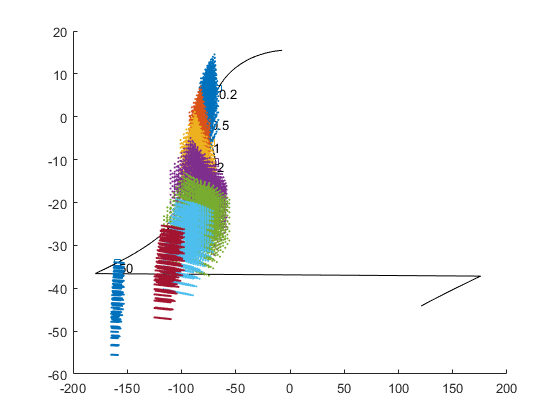
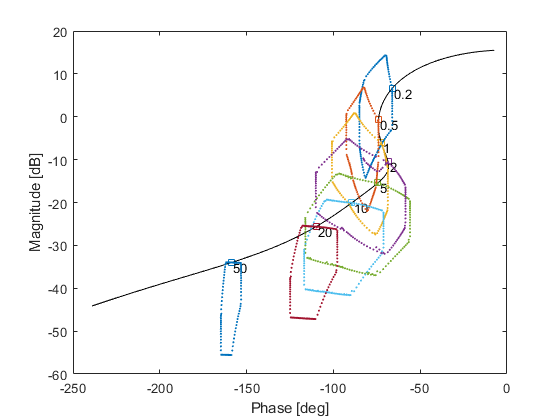
corrected ex

diff --git a/doc/html/ex_blackBox.html b/doc/html/ex_blackBox.html
@@ -6,7 +6,7 @@
    <script type="text/javascript" src="http://cdn.mathjax.org/mathjax/latest/MathJax.js?config=TeX-AMS-MML_HTMLorMML"></script><!--
 This HTML was auto-generated from MATLAB code.
 To make changes, update the MATLAB code and republish this document.
-      --><title>Exmaple: Black box</title><meta name="generator" content="MATLAB 9.3"><link rel="schema.DC" href="http://purl.org/dc/elements/1.1/"><meta name="DC.date" content="2019-02-14"><meta name="DC.source" content="ex_blackBox.m"><style type="text/css">
+      --><title>Exmaple: Black box</title><meta name="generator" content="MATLAB 9.3"><link rel="schema.DC" href="http://purl.org/dc/elements/1.1/"><meta name="DC.date" content="2020-04-21"><meta name="DC.source" content="ex_blackBox.m"><style type="text/css">
 html,body,div,span,applet,object,iframe,h1,h2,h3,h4,h5,h6,p,blockquote,pre,a,abbr,acronym,address,big,cite,code,del,dfn,em,font,img,ins,kbd,q,s,samp,small,strike,strong,sub,sup,tt,var,b,u,i,center,dl,dt,dd,ol,ul,li,fieldset,form,label,legend,table,caption,tbody,tfoot,thead,tr,th,td{margin:0;padding:0;border:0;outline:0;font-size:100%;vertical-align:baseline;background:transparent}body{line-height:1}ol,ul{list-style:none}blockquote,q{quotes:none}blockquote:before,blockquote:after,q:before,q:after{content:'';content:none}:focus{outine:0}ins{text-decoration:none}del{text-decoration:line-through}table{border-collapse:collapse;border-spacing:0}
 
 html { min-height:100%; margin-bottom:1px; }
@@ -71,61 +71,63 @@ table td { padding:7px 5px; text-align:left; vertical-align:top; border:1px soli
 <span class="keyword">function</span> Pz = explant(k,a,zet,wn,s)
 </pre><pre class="language-matlab">Ts = 0.02;
 z = exp(Ts*s);                              <span class="comment">% approximate z</span>
-num = k*[1 a];
-den = conv([1/(wn*wn) 2*zet/wn 1],[1/10000 2*0.7/100 1]);
-Pz = c2d(tf(num,den),Ts,<span class="string">'zoh'</span>);             <span class="comment">% convert by ZOH</span>
-[dnum, dden] = tfdata(Pz);                  <span class="comment">% cell object are returned</span>
-y = polyval(dnum{1},z)./polyval(dden{1},z);
+N = length(s);
+y = zeros(N,1);
+<span class="keyword">for</span> ii=1:N
+    num = k(ii).*[1 a(ii)];
+    den = conv([1/(wn(ii)*wn(ii)) 2*zet(ii)/wn(ii) 1],[1/10000 2*0.7/100 1]);
+    Pz = c2d(tf(num,den),Ts,<span class="string">'zoh'</span>);             <span class="comment">% convert by ZOH</span>
+    [dnum, dden] = tfdata(Pz);                  <span class="comment">% cell object are returned</span>
+    y(ii) = polyval(dnum{1},z(ii))./polyval(dden{1},z(ii));
+<span class="keyword">end</span>
 </pre><pre class="language-matlab"><span class="keyword">end</span>
 ------------------------------------------------------------------------
-</pre><p>Define the uncertain parameters as qpar array. Note that a qapr array must be a column vector (horizontal concatenation produces a qpoly object!)</p><pre class="codeinput"><span class="comment">% uncertain parameters</span>
+</pre><p>Note that the only restriction is that the external plant function be able to take vectors of parameters and s and return a vector of the same size.</p><p>Define the uncertain parameters as qpar array. Note that a qapr array must be a column vector (horizontal concatenation produces a qpoly object!)</p><pre class="codeinput"><span class="comment">% uncertain parameters</span>
 k=qpar(<span class="string">'k'</span>,2,2,5,8);
 a=qpar(<span class="string">'a'</span>,3,1,3,8);
 z=qpar(<span class="string">'z'</span>,0.6,0.3,0.6,8);
 wn=qpar(<span class="string">'wn'</span>,4,4,8,8);
 pars=[k ; a ; z ; wn];
-</pre><p>The blacl box plant is now defined as</p><pre class="codeinput">Pblack = qblackbox(f,pars)
+</pre><p>The black box plant is now defined as</p><pre class="codeinput">Pblack = qblackbox(f,pars)
 </pre><pre class="codeoutput">
 Pblack = 
 
   qblackbox with properties:
 
-           er: []
+     blackBox: @explant
           num: []
           den: []
-     blackBox: @explant
          pars: [4&times;1 qpar]
-        delay: []
      unstruct: []
        uncint: []
-    templates: []
-      nominal: []
-         info: 'generated from BalckBox func handle on: 14-Feb-2019 15:28:02'
+         info: 'generated from BalckBox func handle on: 21-Apr-2020 00:19:08'
+    templates: [0&times;0 qtpl]
+      nominal: [0&times;0 qfr]
+        delay: []
 
 </pre><p>Usage is same as a dum/den qplant. We can plot the nyquist plot for selected cases,</p><pre class="codeinput">parcases = [2 1 0.3 4 ; 5 3 0.6 8 ; 3 2 0.5 6].';
 Pblack.niccases(parcases,logspace(-2,2,30))
 </pre><img vspace="5" hspace="5" src="ex_blackBox_01.png" alt=""> <p>compute the nominal case and templates</p><pre class="codeinput">Pblack.cnom(logspace(-2,2,200))
 w = [0.2 0.5 1 2 5 10 20 50];
-Pblack.ctpl(<span class="string">'grid'</span>,w);
+Pblack.ctpl(<span class="string">'recedge'</span>,w);
 Pblack.showtpl;
 </pre><pre class="codeoutput">
 ans = 
 
   qblackbox with properties:
 
-           er: []
+     blackBox: @explant
           num: []
           den: []
-     blackBox: @explant
          pars: [4&times;1 qpar]
-        delay: []
      unstruct: []
        uncint: []
-    templates: []
+         info: 'generated from BalckBox func handle on: 21-Apr-2020 00:19:08'
+    templates: [0&times;0 qtpl]
       nominal: [1&times;1 qfr]
-         info: 'generated from BalckBox func handle on: 14-Feb-2019 15:28:02'
+        delay: []
 
-Calculating templates using the grid method 
+Calculating templates by recurcive edge grid
 --&gt; for w=0.2 [rad/s] 
 --&gt; for w=0.5 [rad/s] 
 --&gt; for w=1 [rad/s] 
@@ -134,6 +136,7 @@ Calculating templates using the grid method
 --&gt; for w=10 [rad/s] 
 --&gt; for w=20 [rad/s] 
 --&gt; for w=50 [rad/s] 
+PRUNE: Phase uncertainty larger than 360, or not connected
 </pre><img vspace="5" hspace="5" src="ex_blackBox_02.png" alt=""> <p>and etc. Do note that everything runs much slower. This issue should be fixed in future openQsyn versions.</p><p class="footer"><br><a href="http://www.mathworks.com/products/matlab/">Published with MATLAB&reg; R2017b</a><br></p></div><!--
 ##### SOURCE BEGIN #####
 %% Exmaple: Black box
@@ -168,14 +171,23 @@ f = @explant;
 % 
 %   Ts = 0.02;
 %   z = exp(Ts*s);                              % approximate z
-%   num = k*[1 a];
-%   den = conv([1/(wn*wn) 2*zet/wn 1],[1/10000 2*0.7/100 1]);
-%   Pz = c2d(tf(num,den),Ts,'zoh');             % convert by ZOH
-%   [dnum, dden] = tfdata(Pz);                  % cell object are returned
-%   y = polyval(dnum{1},z)./polyval(dden{1},z);
+%   N = length(s);
+%   y = zeros(N,1);
+%   for ii=1:N
+%       num = k(ii).*[1 a(ii)];
+%       den = conv([1/(wn(ii)*wn(ii)) 2*zet(ii)/wn(ii) 1],[1/10000 2*0.7/100 1]);
+%       Pz = c2d(tf(num,den),Ts,'zoh');             % convert by ZOH
+%       [dnum, dden] = tfdata(Pz);                  % cell object are returned
+%       y(ii) = polyval(dnum{1},z(ii))./polyval(dden{1},z(ii));
+%   end
 % 
 %   end
 %   REPLACE_WITH_DASH_DASHREPLACE_WITH_DASH_DASHREPLACE_WITH_DASH_DASHREPLACE_WITH_DASH_DASHREPLACE_WITH_DASH_DASHREPLACE_WITH_DASH_DASHREPLACE_WITH_DASH_DASHREPLACE_WITH_DASH_DASHREPLACE_WITH_DASH_DASHREPLACE_WITH_DASH_DASHREPLACE_WITH_DASH_DASHREPLACE_WITH_DASH_DASHREPLACE_WITH_DASH_DASHREPLACE_WITH_DASH_DASHREPLACE_WITH_DASH_DASHREPLACE_WITH_DASH_DASHREPLACE_WITH_DASH_DASHREPLACE_WITH_DASH_DASHREPLACE_WITH_DASH_DASHREPLACE_WITH_DASH_DASHREPLACE_WITH_DASH_DASHREPLACE_WITH_DASH_DASHREPLACE_WITH_DASH_DASHREPLACE_WITH_DASH_DASHREPLACE_WITH_DASH_DASHREPLACE_WITH_DASH_DASHREPLACE_WITH_DASH_DASHREPLACE_WITH_DASH_DASHREPLACE_WITH_DASH_DASHREPLACE_WITH_DASH_DASHREPLACE_WITH_DASH_DASHREPLACE_WITH_DASH_DASHREPLACE_WITH_DASH_DASHREPLACE_WITH_DASH_DASHREPLACE_WITH_DASH_DASHREPLACE_WITH_DASH_DASH
+ 
+%%
+% Note that the only restriction is that the external plant function be
+% able to take vectors of parameters and s and return a vector of the same
+% size.
 
 %%
 % Define the uncertain parameters as qpar array. Note that a qapr array
@@ -189,7 +201,7 @@ wn=qpar('wn',4,4,8,8);
 pars=[k ; a ; z ; wn];
 
 %%
-% The blacl box plant is now defined as
+% The black box plant is now defined as
 Pblack = qblackbox(f,pars)
 %%
 % Usage is same as a dum/den qplant. We can plot the nyquist plot for
@@ -201,7 +213,7 @@ Pblack.niccases(parcases,logspace(-2,2,30))
 % compute the nominal case and templates
 Pblack.cnom(logspace(-2,2,200))
 w = [0.2 0.5 1 2 5 10 20 50];
-Pblack.ctpl('grid',w);
+Pblack.ctpl('recedge',w);
 Pblack.showtpl;
 
 %%

diff --git a/doc/html/ex_rff.html b/doc/html/ex_rff.html
@@ -119,7 +119,7 @@ P2.showtpl
 --&gt; for w=10 [rad/sec]
 --&gt; for w=20 [rad/sec]
 --&gt; for w=50 [rad/sec]
-</pre><img vspace="5" hspace="5" src="ex_rff_03.png" alt=""> <p>One can see that the nominal is drawn at the wrong phase: <span class="MathJax_Preview"><img src="ex_rff_eq13730660818168336607.png" alt="$+180$"></span><script type="math/tex">+180</script> degrees instead of <span class="MathJax_Preview"><img src="ex_rff_eq08359778732645892253.png" alt="$-180$"></span><script type="math/tex">-180</script> degrees. This can be corrected using the command <tt>P2.unwrap()</tt>.</p><p class="footer"><br><a href="http://www.mathworks.com/products/matlab/">Published with MATLAB&reg; R2017b</a><br></p></div><!--
+</pre><img vspace="5" hspace="5" src="ex_rff_03.png" alt=""> <p>One can see that the nominal is drawn at the wrong phase: <span class="MathJax_Preview"><img src="ex_rff_eq13730660818168336607.png" alt="$+180$"></span><script type="math/tex">+180</script> degrees instead of <span class="MathJax_Preview"><img src="ex_rff_eq08359778732645892253.png" alt="$-180$"></span><script type="math/tex">-180</script> degrees. This can be corrected using the command <tt>P2.unwrap()</tt>.</p><p>In the second example a delay is added using a delay rff element. Note that dealys, as well as multiplicative unstructured uncertainty may be inserted both as rff elements and using the qplant methods <tt>adelay</tt> and <tt>auncint</tt>. It is suggested that these methods wiil only be used when the plant is not constructed using rff elements.</p><p class="footer"><br><a href="http://www.mathworks.com/products/matlab/">Published with MATLAB&reg; R2017b</a><br></p></div><!--
 ##### SOURCE BEGIN #####
 %% Example: RFF template computation
 % 
@@ -216,5 +216,11 @@ P2.showtpl
 % One can see that the nominal is drawn at the wrong phase: $+180$ degrees instead
 % of $-180$ degrees. This can be corrected using the command |P2.unwrap()|. 
 
+%%
+% In the second example a delay is added using a delay rff element. Note
+% that dealys, as well as multiplicative unstructured uncertainty may be
+% inserted both as rff elements and using the qplant methods |adelay| and 
+% |auncint|. It is suggested that these methods wiil only be used when the
+% plant is not constructed using rff elements.
 ##### SOURCE END #####
 --></body></html>

diff --git a/@qrff/qrff.m b/@qrff/qrff.m
@@ -11,7 +11,39 @@ classdef qrff
     methods
         function obj = qrff(type,par1,varargin)
             %QRFF Construct an instance of the qrff class
-            %   Detailed explanation goes here
+            %   
+            %   Usage: 
+            %
+            %   rff = QRFF(type,par)   defines a qrff object of specified "type" 
+            %   using the qpar or numerical parameter "par". 
+            %
+            %   rff = qrff(type,par1,par2)    is used is type requires two
+            %   parameters 
+            %
+            %   Avilables input combinations
+            %       qrff('gain',k)      uncertain gain k
+            %       qrff('unc',w,M)     unstructured uncertainty M(w)
+            %       qrff('delay',tau)   time delay exp(-tau*s) 
+            %       qrff('dc',a)        first order dc element (s/a+1)
+            %       qrff('dc',w,z)      second order dc element (s^2/w^2+2*z*s/w+1)
+            %       qrff('hf',a)        first order hf element (a+s)
+            %       qrff('hf',w,z)      second order hf element (s^2+2*z*w*s+w^2)
+            %     
+            %   Example 1: 2nd order dc element with uncertain wn and zeta
+            %       wn = qpar('wn',4,4,8);
+            %       zeta = qpar('z',0.4,0.4,0.6);
+            %       rffElement = QRFF('dc',wn,zeta);
+            % 
+            %   Example 2: 2nd order hf element with uncertain wn and constant zeta 
+            %       wn = qpar('wn',4,4,8);
+            %       zeta = 0.4;
+            %       rffElement = QRFF('hc'wn'zeta)
+            %
+            %   Example 3: unstructured uncertainty
+            %       wunc = [0.1 0.5 1 5 10 20 50];
+            %       M = [1 2 5 5 5 10 20];
+            %       rffElement = qrff('unc',wunc,M);
+            %
             
             validStrings = {'gain','delay','dc','hf','uns','int','poly'};
             validatestring(type,validStrings,'qrff','type',1);

diff --git a/qblackbox.m b/qblackbox.m
@@ -19,6 +19,25 @@ classdef qblackbox < qplant
             %Used by: FUNCVAL, CASES, CTPL, CNOM and their subroutines          
             h = obj.blackBox;
         end
+        function obj = cnom(obj,w)
+            %CPNOM computes the nominal transfer function
+            %
+            %   CNOM(P,W)   computes the nominal for qplant object P for the frequency
+            %   vector W; results is stored under the property 'nominal'.
+            %
+            %   See also: qplant/ctpl
+            if nargin<2, w = logspace(-1,2,50); end
+            f = qplant2func(obj);
+            pnom = [obj.pars.nominal];
+            N = length(w);
+            C=cell(length(pnom),1);
+            for k=1:length(pnom)
+                C{k} = repmat(pnom(k),N,1);                
+            end
+            C{end+1}=1j*w;
+            nyq = f(C{:});
+            obj.nominal=qfr(c2n(nyq,'unwarp'),w) ;
+        end
     end
     
        methods(Static)
@@ -27,11 +46,11 @@ classdef qblackbox < qplant
             %function handle F created by QPLANT2FUNC, for given parameter
             %case C and for S. The output is in unwrapped Nichols format.
             ck = c;
-            ck{end} = s;
+            ck{end} = reshape(s,1,[]);
             T = zeros(length(s),length(c{1}));
             pargrid = cell2mat(c(1:end-1));
             for k=1:size(pargrid,2) % for each parameter set...
-                ck(1:size(pargrid,1)) = mat2cell(pargrid(:,k),ones(1,size(pargrid,1)));
+                ck(1:size(pargrid,1)) = mat2cell(repmat(pargrid(:,k),1,length(s)),ones(1,size(pargrid,1)));
                 nyq  = f(ck{:});
                 T(:,k) = c2n(nyq,'unwrap');
             end

diff --git a/doc/ex_blackBox.m b/doc/ex_blackBox.m
@@ -30,14 +30,23 @@ f = @explant;
 % 
 %   Ts = 0.02;
 %   z = exp(Ts*s);                              % approximate z
-%   num = k*[1 a];
-%   den = conv([1/(wn*wn) 2*zet/wn 1],[1/10000 2*0.7/100 1]);
-%   Pz = c2d(tf(num,den),Ts,'zoh');             % convert by ZOH
-%   [dnum, dden] = tfdata(Pz);                  % cell object are returned
-%   y = polyval(dnum{1},z)./polyval(dden{1},z);
+%   N = length(s);
+%   y = zeros(N,1);
+%   for ii=1:N
+%       num = k(ii).*[1 a(ii)];
+%       den = conv([1/(wn(ii)*wn(ii)) 2*zet(ii)/wn(ii) 1],[1/10000 2*0.7/100 1]);
+%       Pz = c2d(tf(num,den),Ts,'zoh');             % convert by ZOH
+%       [dnum, dden] = tfdata(Pz);                  % cell object are returned
+%       y(ii) = polyval(dnum{1},z(ii))./polyval(dden{1},z(ii));
+%   end
 % 
 %   end
 %   ------------------------------------------------------------------------
+ 
+%%
+% Note that the only restriction is that the external plant function be
+% able to take vectors of parameters and s and return a vector of the same
+% size.
 
 %%
 % Define the uncertain parameters as qpar array. Note that a qapr array
@@ -51,7 +60,7 @@ wn=qpar('wn',4,4,8,8);
 pars=[k ; a ; z ; wn];
 
 %%
-% The blacl box plant is now defined as
+% The black box plant is now defined as
 Pblack = qblackbox(f,pars)
 %%
 % Usage is same as a dum/den qplant. We can plot the nyquist plot for
@@ -63,7 +72,7 @@ Pblack.niccases(parcases,logspace(-2,2,30))
 % compute the nominal case and templates
 Pblack.cnom(logspace(-2,2,200))
 w = [0.2 0.5 1 2 5 10 20 50];
-Pblack.ctpl('grid',w);
+Pblack.ctpl('recedge',w);
 Pblack.showtpl;
 
 %%

diff --git a/doc/explant.m b/doc/explant.m
@@ -1,12 +1,19 @@
 function y = explant(k,a,zet,wn,s)
 
+
 Ts = 0.02;
 z = exp(Ts*s);                              % approximate z
-num = k*[1 a];
-den = conv([1/(wn*wn) 2*zet/wn 1],[1/10000 2*0.7/100 1]);
-Pz = c2d(tf(num,den),Ts,'zoh');             % convert by ZOH
-[dnum, dden] = tfdata(Pz);                  % cell object are returned
-y = polyval(dnum{1},z)./polyval(dden{1},z);
+
+N = length(s);
+    
+y = zeros(N,1);
+for ii=1:N
+    num = k(ii).*[1 a(ii)];
+    den = conv([1/(wn(ii)*wn(ii)) 2*zet(ii)/wn(ii) 1],[1/10000 2*0.7/100 1]);
+    Pz = c2d(tf(num,den),Ts,'zoh');             % convert by ZOH
+    [dnum, dden] = tfdata(Pz);                  % cell object are returned
+    y(ii) = polyval(dnum{1},z(ii))./polyval(dden{1},z(ii));
+end
 
 end
 

diff --git a/@qplant/unwrap.m b/@qplant/unwrap.m
@@ -8,13 +8,21 @@ if isempty(obj.templates)
     error('no template sto unwrap')
 end
 
+tol = 10; 
+
 nom = obj.nominal.unwrap;
 tpl = obj.templates;
 
 for k = 1:length(tpl)
     
     [~,I] = min(abs(nom.frequency - tpl(k).frequency));
-    n_r=ceil((real(tpl(k).template(1))-real(nom.response(I)))/360);
+    phase_diff = real(tpl(k).template(1))-real(nom.response(I));
+    Sign = sign(phase_diff);
+    if Sign > 0
+        n_r = ceil((phase_diff+tol)/360);
+    else    
+        n_r = ceil((phase_diff-tol)/360);
+    end
     tpl(k).template = tpl(k).template-(n_r)*360;
 
 end

diff --git a/doc/ex_rff.m b/doc/ex_rff.m
@@ -92,3 +92,10 @@ P2.showtpl
 %% 
 % One can see that the nominal is drawn at the wrong phase: $+180$ degrees instead
 % of $-180$ degrees. This can be corrected using the command |P2.unwrap()|. 
+
+%%
+% In the second example a delay is added using a delay rff element. Note
+% that dealys, as well as multiplicative unstructured uncertainty may be
+% inserted both as rff elements and using the qplant methods |adelay| and 
+% |auncint|. It is suggested that these methods wiil only be used when the
+% plant is not constructed using rff elements.
